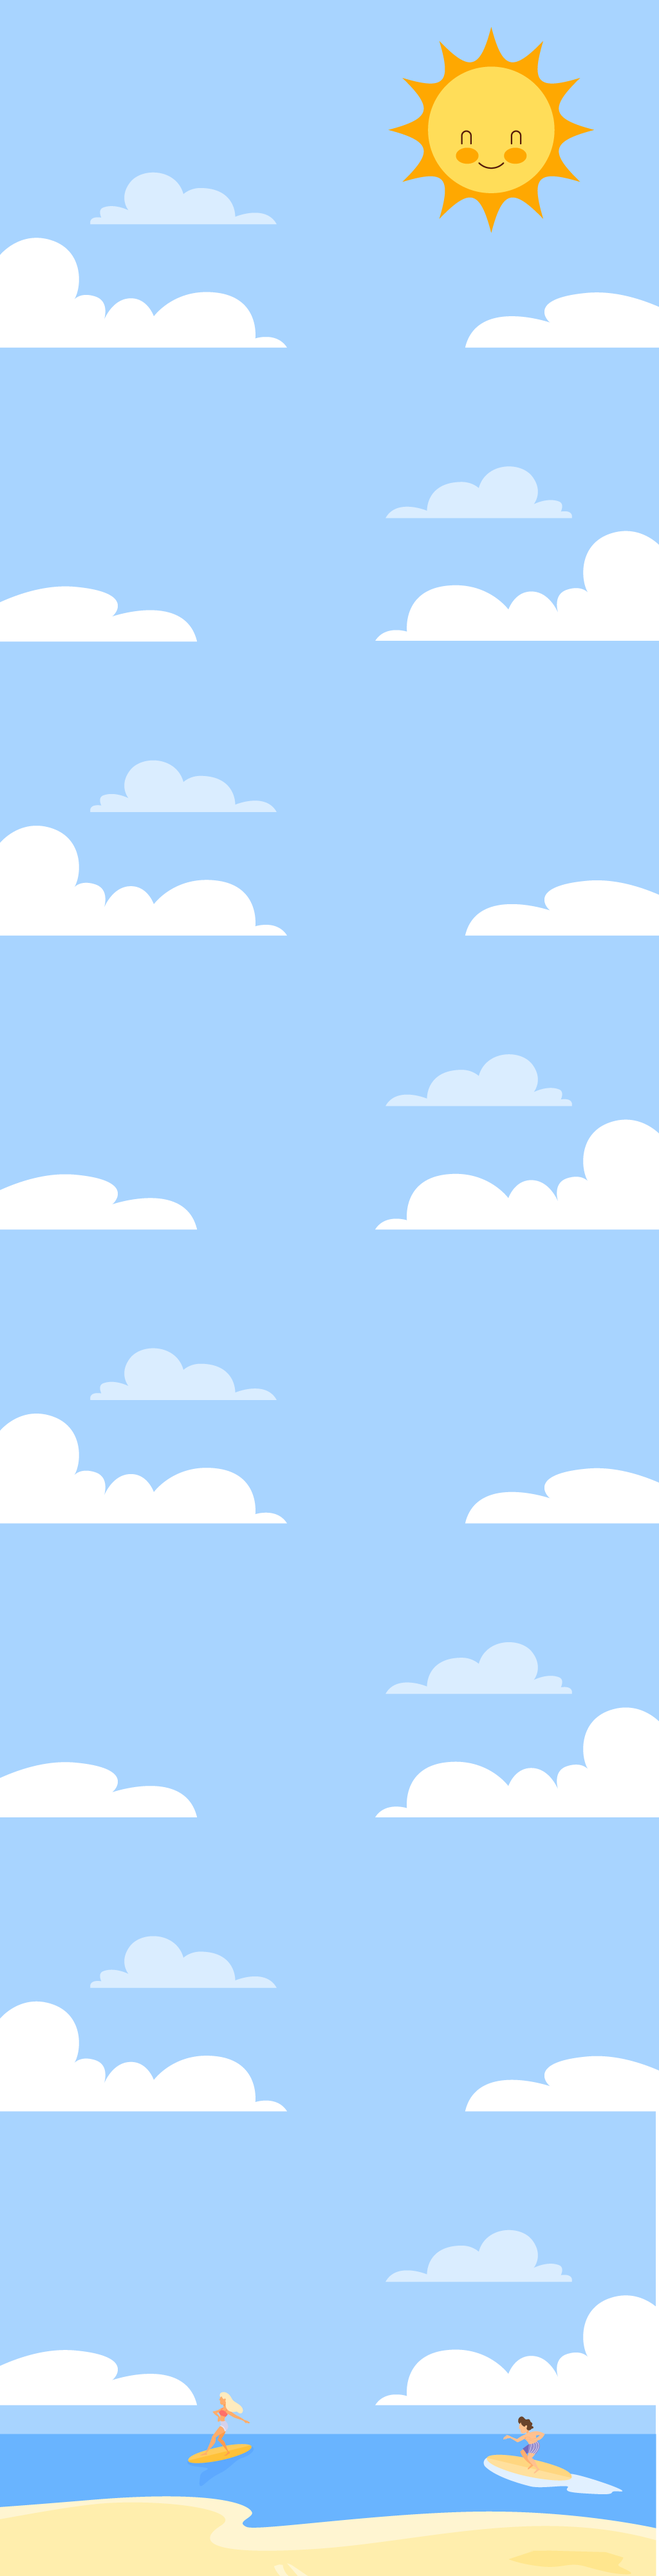
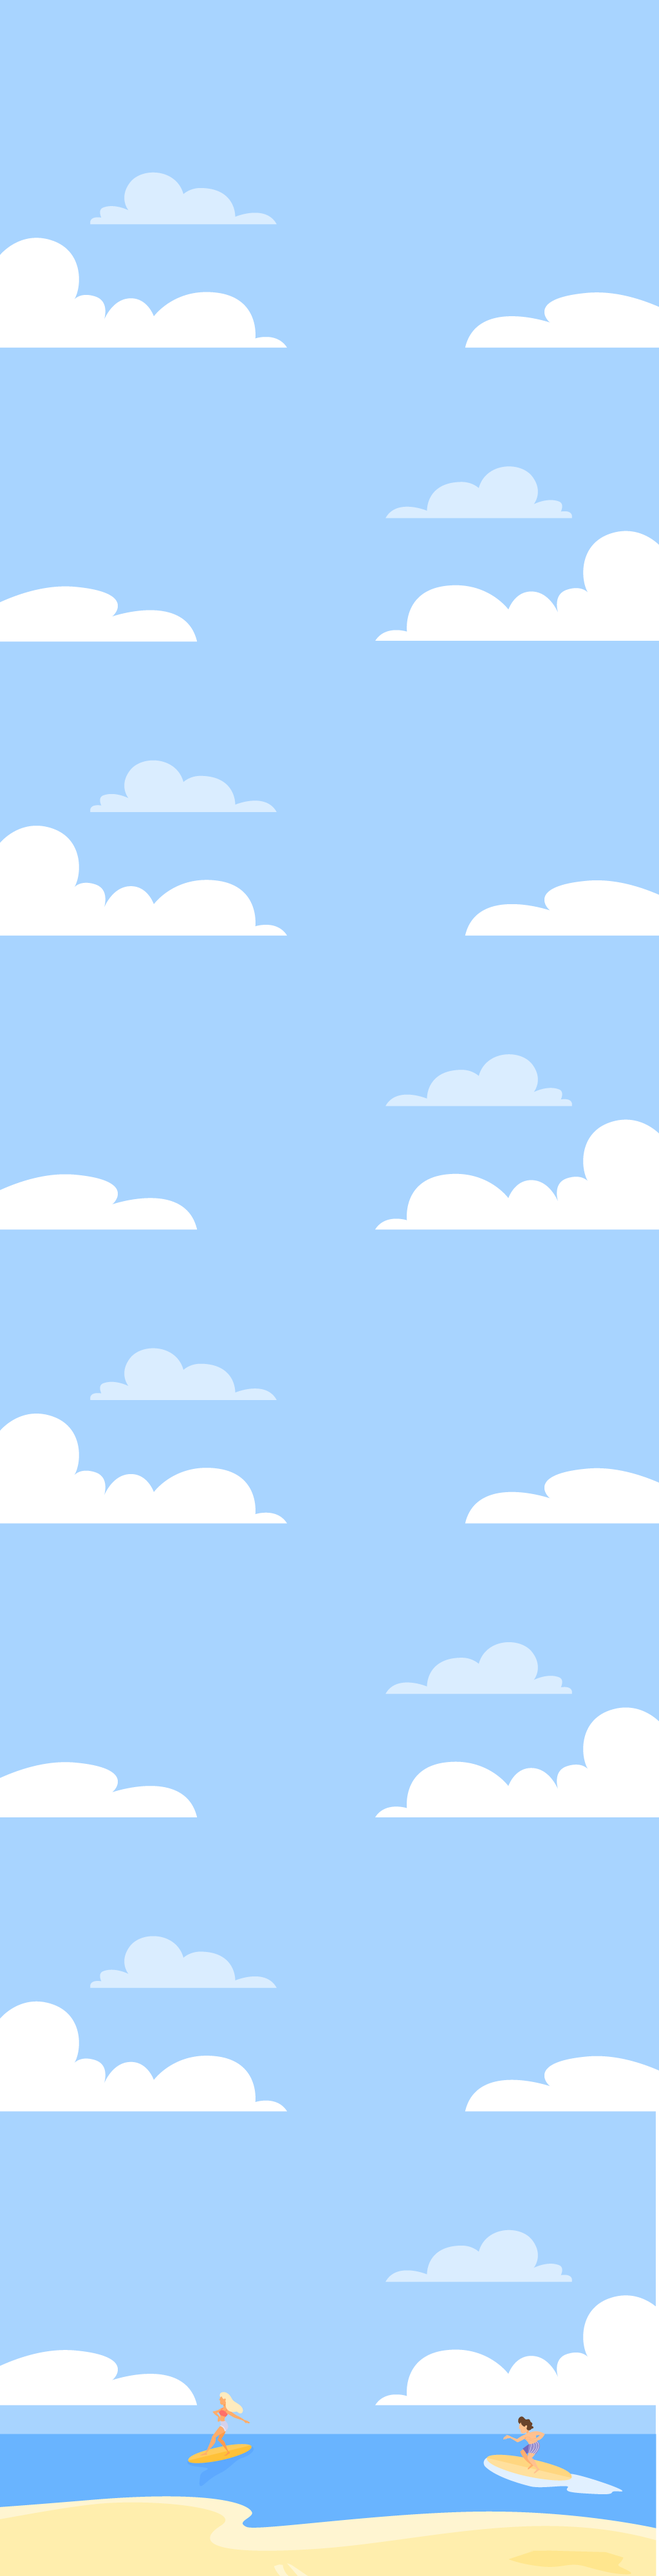
asset changes pratik

Changed region(s): [[0.5938, 0.0, 0.875, 0.0938]]

diff --git a/rough-final.html b/rough-final.html
@@ -31,7 +31,8 @@
   const height = 768;
   const color = "green"; // ZIM colors like green, blue, pink, faint, clear, etc.
   const outerColor = "black"; // any HTML colors like "violet", "#333", etc. are fine to use
-  const assets =["lose.mp3", "win.mp3", "beachball.png","beach_ocean.mp3", "beach_ocean2.mp3", "beach_seagulls.mp3", "beach_seagulls_2.mp3", "music.mp3", {font:"cream", src:"cream.ttf"}];
+  const assets =["umbrella_red_3.png", "beach_2.png", "lose.mp3", "win.mp3", "beachball.png","beach_ocean.mp3", "beach_ocean2.mp3", "beach_seagulls.mp3", "beach_seagulls_2.mp3", "music.mp3", {font:"cream", src:"cream.ttf"}, "umbrella_yellow.png", "umbrella_yellow_2.png", "umbrella_yellow_3.png", "umbrella_blue.png", "umbrella_blue_2.png", "umbrella_blue_3.png",
+  "umbrella_red.png", "umbrella_red_2.png", "gravitybeach.jpg", "gravitybeach_icon.png", "sun.png"];
   const path = "assets/";
   const progress = new ProgressBar({foregroundColor:"yellow", borderWidth:"0", barType:"rectangle"});
 
@@ -54,19 +55,30 @@
 
     const start = new Container(stageW, stageH).addTo(stage);
 
-    const steps = new Label({
-      text:"Float the beachball to the top! Don't let the beachball fall to the ground!",
+    let backgroundImage = asset("gravitybeach.jpg").centerReg().addTo(start);
+
+    let logo = asset("gravitybeach_icon.png").centerReg().mov(0,-120).addTo(start);
+
+    const steps3 = new Label({
+      text:"Try to hit the sun but don't let the beachball fall to the ground!",
       font:"cream",
-      color:"yellow",
+      color:"dark",
       size: 20,
-    }).pos(0, 280, CENTER);
+    }).pos(0, 280, CENTER).mov(0,310);
+
+    const steps = new Label({
+      text:"Float the beachball to the top using your beautiful voice and the left/righ arrow keys.",
+      font:"cream",
+      color:"dark",
+      size: 20,
+    }).pos(0, 280, CENTER).mov(0,280);
 
     const steps2 = new Label({
-      text:"Please ACTIVATE your MICROPHONE! This game uses your beautiful voice.",
+      text:"Please ACTIVATE your MICROPHONE and put on your HEADPHONES!",
       font:"cream",
-      color:"yellow",
+      color:"dark",
       size: 20,
-    }).pos(0, 200, CENTER);
+    }).pos(0, 200, CENTER).mov(0,330);
 
     const buttonlabel = new Label({
       text:"START",
@@ -76,6 +88,7 @@
       bold:true,
     });
 
+
     const button = new Button({
       width: 250,
       height: 50,
@@ -84,7 +97,7 @@
       rollBackgroundColor:"#af0000",
       gradient:.2,
       corner:0,
-    }).center().alp(0).animate({props:{alpha:1}});
+    }).center().mov(0,280).alp(0).animate({props:{alpha:1}});
 
     button.on("click", function(){
 
@@ -105,26 +118,20 @@
 
 
       const screen = new Container(stageW, stageH).addTo(stage);
-      const bg = pizzazz.makePattern({
-        type: "digital",
-        backgroundColor: white,
-        colors: blue,
-        size: 40,
-        rows: 100,
-        cols: 25,
-      }).alp(1).reg(0,0).center(screen);
+      const bg = asset("beach_2.png").alp(1).reg(0,0).center(screen);
 
       const physics = new Physics(15, new Boundary(bg.x, bg.y, bg.width, bg.height), true)
       const sand = new Rectangle(130, 25, "yellow").centerReg().pos(440, 2350).alp(0).addPhysics(false);
-      const hotSand = new Rectangle(1024, 300, "orange").pos(0, 2450);
-      const platform = new Rectangle(240, 25, "blue").centerReg().pos(180, 2000).addPhysics(false);
-      const platform2 = new Rectangle(240, 25, "blue").centerReg().pos(600, 1600).addPhysics(false);
-      const platform3 = new Rectangle(240, 25, "blue").centerReg().pos(180, 1200).addPhysics(false);
-      const platform4 = new Rectangle(240, 25, "blue").centerReg().pos(600, 800).addPhysics(false);
-      const platform5 = new Rectangle(240, 25, "blue").centerReg().pos(180, 400).addPhysics(false);
-      const platform6 = new Rectangle(240, 25, "blue").centerReg().pos(600, 0).addPhysics(false);
-      const platform7 = new Rectangle(240, 25, "blue").centerReg().pos(180, -400).addPhysics(false);
-      const platform8 = new Rectangle(240, 25, "blue").centerReg().pos(600, -800).addPhysics(false);
+      const platform = asset("umbrella_yellow.png").centerReg().pos(180, 2000).addPhysics(false);
+  			const platform2 = asset("umbrella_red.png").centerReg().pos(320, 1600).addPhysics(false);
+  				const platform3 = asset("umbrella_blue.png").centerReg().pos(180, 1200).addPhysics(false);
+  					const platform4 = asset("umbrella_yellow_2.png").centerReg().pos(600, 800).addPhysics(false);
+  						const platform5 = asset("umbrella_red_2.png").centerReg().pos(180, 400).addPhysics(false);
+  					const platform6 = asset("umbrella_blue_2.png").centerReg().pos(600, 0).addPhysics(false);
+  				const platform7 = asset("umbrella_yellow_3.png").centerReg().pos(180, -400).addPhysics(false);
+  			const platform8 = asset("umbrella_red_3.png").centerReg().pos(600, -800).addPhysics(false);
+  		const platform9 = asset("umbrella_blue_3.png").centerReg().pos(180, -1200).addPhysics(false);
+
       const sun = new Circle(50, "orange").centerReg().pos(380, -1200).addPhysics(false);
 
 
@@ -163,7 +170,6 @@
           // ball.noControl();
           Ticker.removeAll([stage]);
           endGame();
-
         }
         if(ball.hitTestBounds(sun)){
           beachOcean.stop({volume:.5,loop:true});
@@ -182,10 +188,11 @@
           platform7.removeFrom();
           platform8.removeFrom();
           sun.removeFrom();
+          // ball.follow(null);
           ball.removePhysics();
           ball.removeFrom();
           // bg.removeFrom();
-          // ball.follow();
+
           // ball.noControl();
           Ticker.removeAll([stage]);
           champ();
@@ -215,13 +222,22 @@
 
     function endGame(){
       let lose = asset("lose.mp3").play({volume:.1});
+
       const tryagain = new Label({
-        text:"Oh no, the Beachball hit the ground! Click the button to try again.",
+        text:"Oh no, the Beachball hit the ground!",
         font:"cream",
         color:"red",
         size: 25,
       });
-      const pane = new Pane({width:850, height:450, label:tryagain, modal:false, displayClose:false}).pos(stageW*2, 2050);
+
+      const tryagain2 = new Label({
+        text:"Click the button to try again.",
+        font:"cream",
+        color:"red",
+        size: 25,
+      }).alp(0);
+
+      const pane = new Pane({width:850, height:450, label:tryagain, modal:false, displayClose:false}).show().mov(85, 2050); //85, 2050
       const endscreen = new Container(stageW,stageH).addTo();
       const button2 = new Button(200,60,"Try Again").addTo(pane).pos(0, 280, CENTER, TOP);
       button2.on("click", function(){
@@ -241,6 +257,7 @@
         color:"red",
         size: 25,
       });
+
       const pane2 = new Pane({width:850, height:450, label:awesome, modal:false, displayClose:false}).pos(85, -1200);
       const endscreen2 = new Container(stageW,stageH).addTo();
       const button3 = new Button(200,60,"Try Again").addTo(pane2).pos(0, 280, CENTER, TOP);
